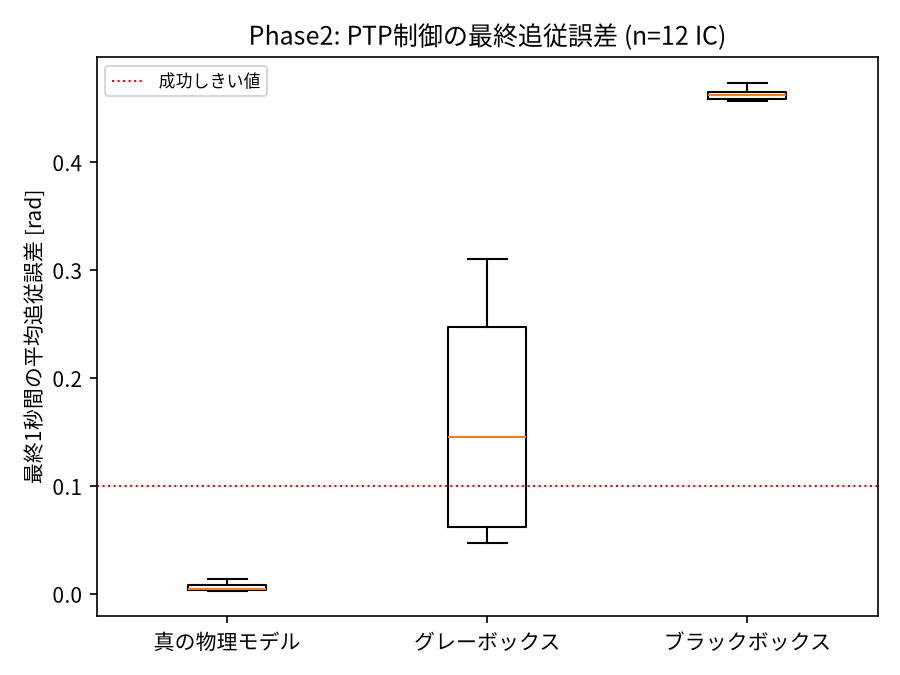
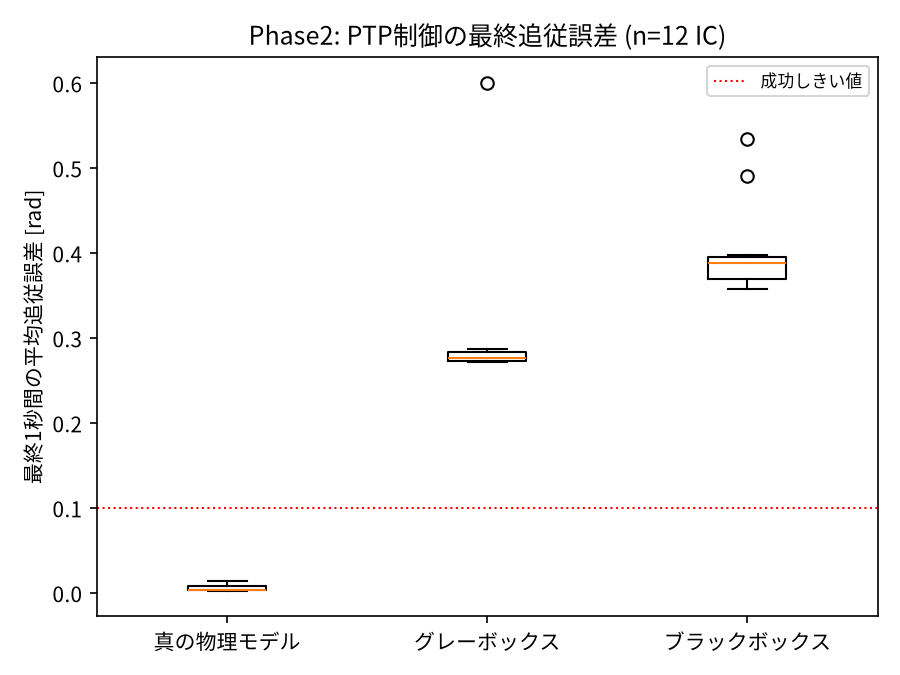
Phase2-M6: 学習レシピ強化を試すも逆効果、PTP成功数が5/12→0/12に悪化
N_TRAIN_TRAJ(600→1200)・ネットワーク容量(64,2層→128,3層)・エポック数を
増強したところ、学習ログでk=30ステージのロスが激しく振動(0.42→1.46→0.21→
0.09→0.14→0.23)し、収束が不安定化した。結果、真の物理モデルは12/12を
維持したが、グレーボックスのPTP成功数はM5の5/12から0/12に悪化した。

カオス的な系では、単純な容量・データ量の増加がかえって多段ロールアウト
損失(特にk=30の長いホライズン)の訓練を不安定化させる可能性が示唆される。
この方向性は打ち切り、次のアプローチをユーザーと相談する。

Claude-Session: https://claude.ai/code/session_01Rvrf6mcbh1UrexApn66z2b

diff --git a/src/model_vertical.py b/src/model_vertical.py
@@ -37,7 +37,10 @@ class GrayBoxModelVertical(AutoregressiveModel):
         M(q) q_ddot + C(q,q_dot) q_dot + G(q) + residual_torque(state,u) = tau
     """
 
-    def __init__(self, hidden_dim: int = 64, n_hidden_layers: int = 2, dt: float = DT, g: float = GRAVITY):
+    # Phase2-M6 (#33): 摩擦係数のスケールが大きい(Phase 1比)ため、既定の容量
+    # (64, 2層)では残差ネットが必要な線形ゲインを学習しきれず持続振動が発生
+    # した(M4/M5参照)。容量を引き上げる。
+    def __init__(self, hidden_dim: int = 128, n_hidden_layers: int = 3, dt: float = DT, g: float = GRAVITY):
         super().__init__()
         self.net = _make_mlp(STATE_ENC_DIM + CONTROL_DIM + 2, CONTROL_DIM, hidden_dim, n_hidden_layers)
         self.dt = dt

diff --git a/src/train_vertical.py b/src/train_vertical.py
@@ -14,8 +14,11 @@ from src.model_vertical import GrayBoxModelVertical
 
 DT = 0.02
 N_STEPS_PER_TRAJ = 50
-N_TRAIN_TRAJ = 600
-N_VAL_TRAJ = 80
+# Phase2-M6 (#33): 摩擦係数のスケールが大きく学習が難しいため、Phase 1と
+# 同じデータ量・エポック数では残差ネットが十分学習できなかった(M4/M5参照)。
+# データ量・エポック数を増やす。
+N_TRAIN_TRAJ = 1200
+N_VAL_TRAJ = 160
 SEED = 0
 BATCH_SIZE = 512
 LR = 1e-3
@@ -24,7 +27,7 @@ GRAD_CLIP_NORM = 1.0
 K_MAX = 30
 WINDOW_STRIDE = 2
 
-CURRICULUM = [(1, 40), (3, 30), (5, 30), (10, 30), (20, 30), (K_MAX, 40)]
+CURRICULUM = [(1, 60), (3, 45), (5, 45), (10, 45), (20, 45), (K_MAX, 60)]
 
 
 def train(
